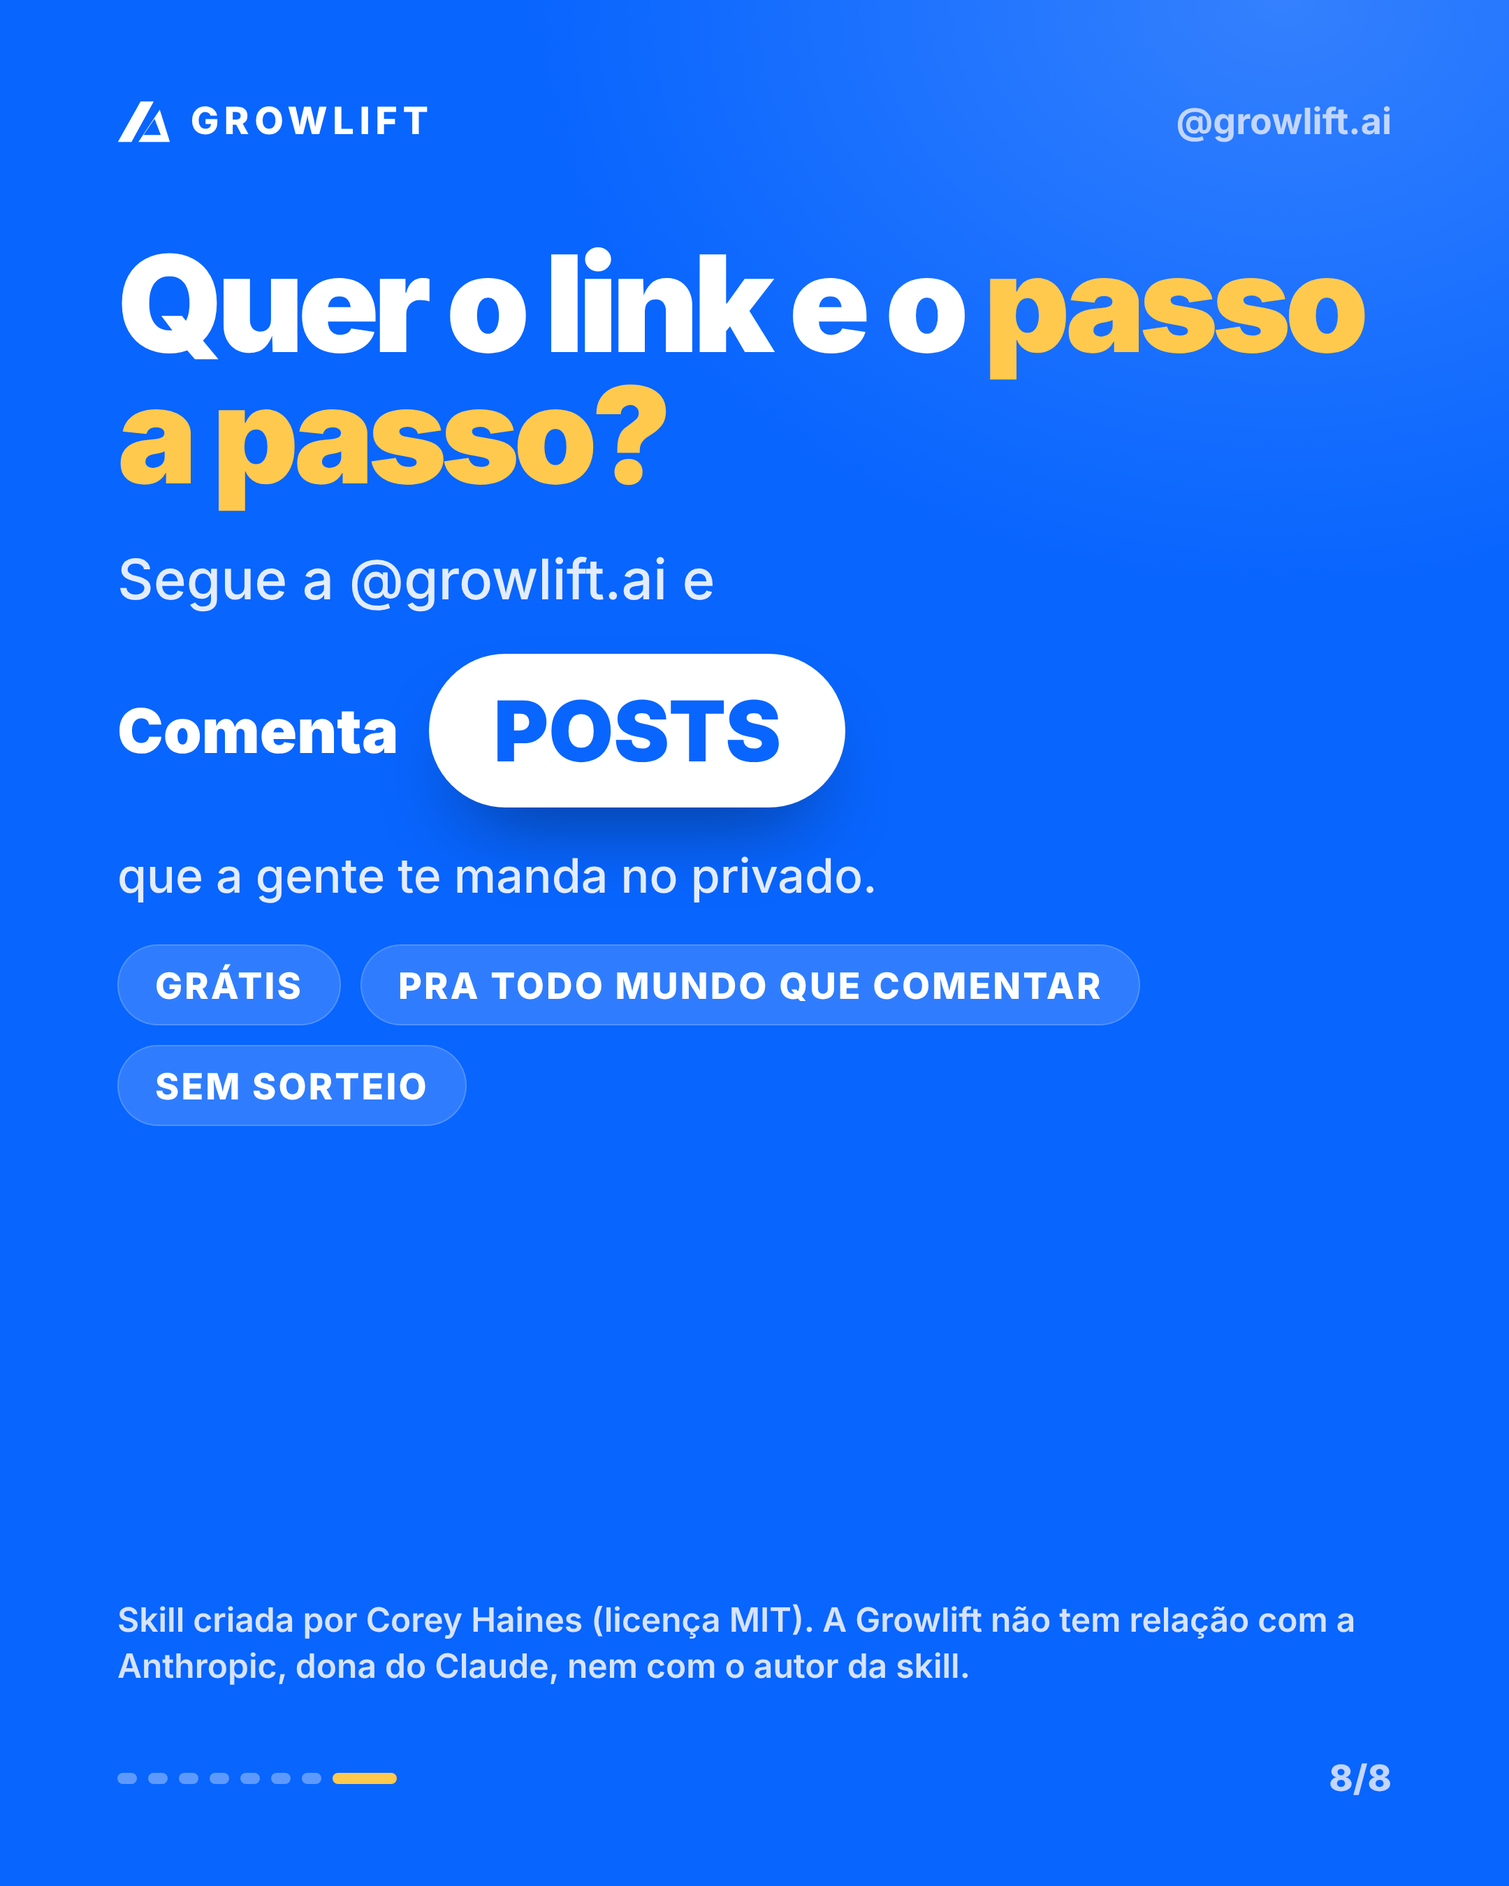
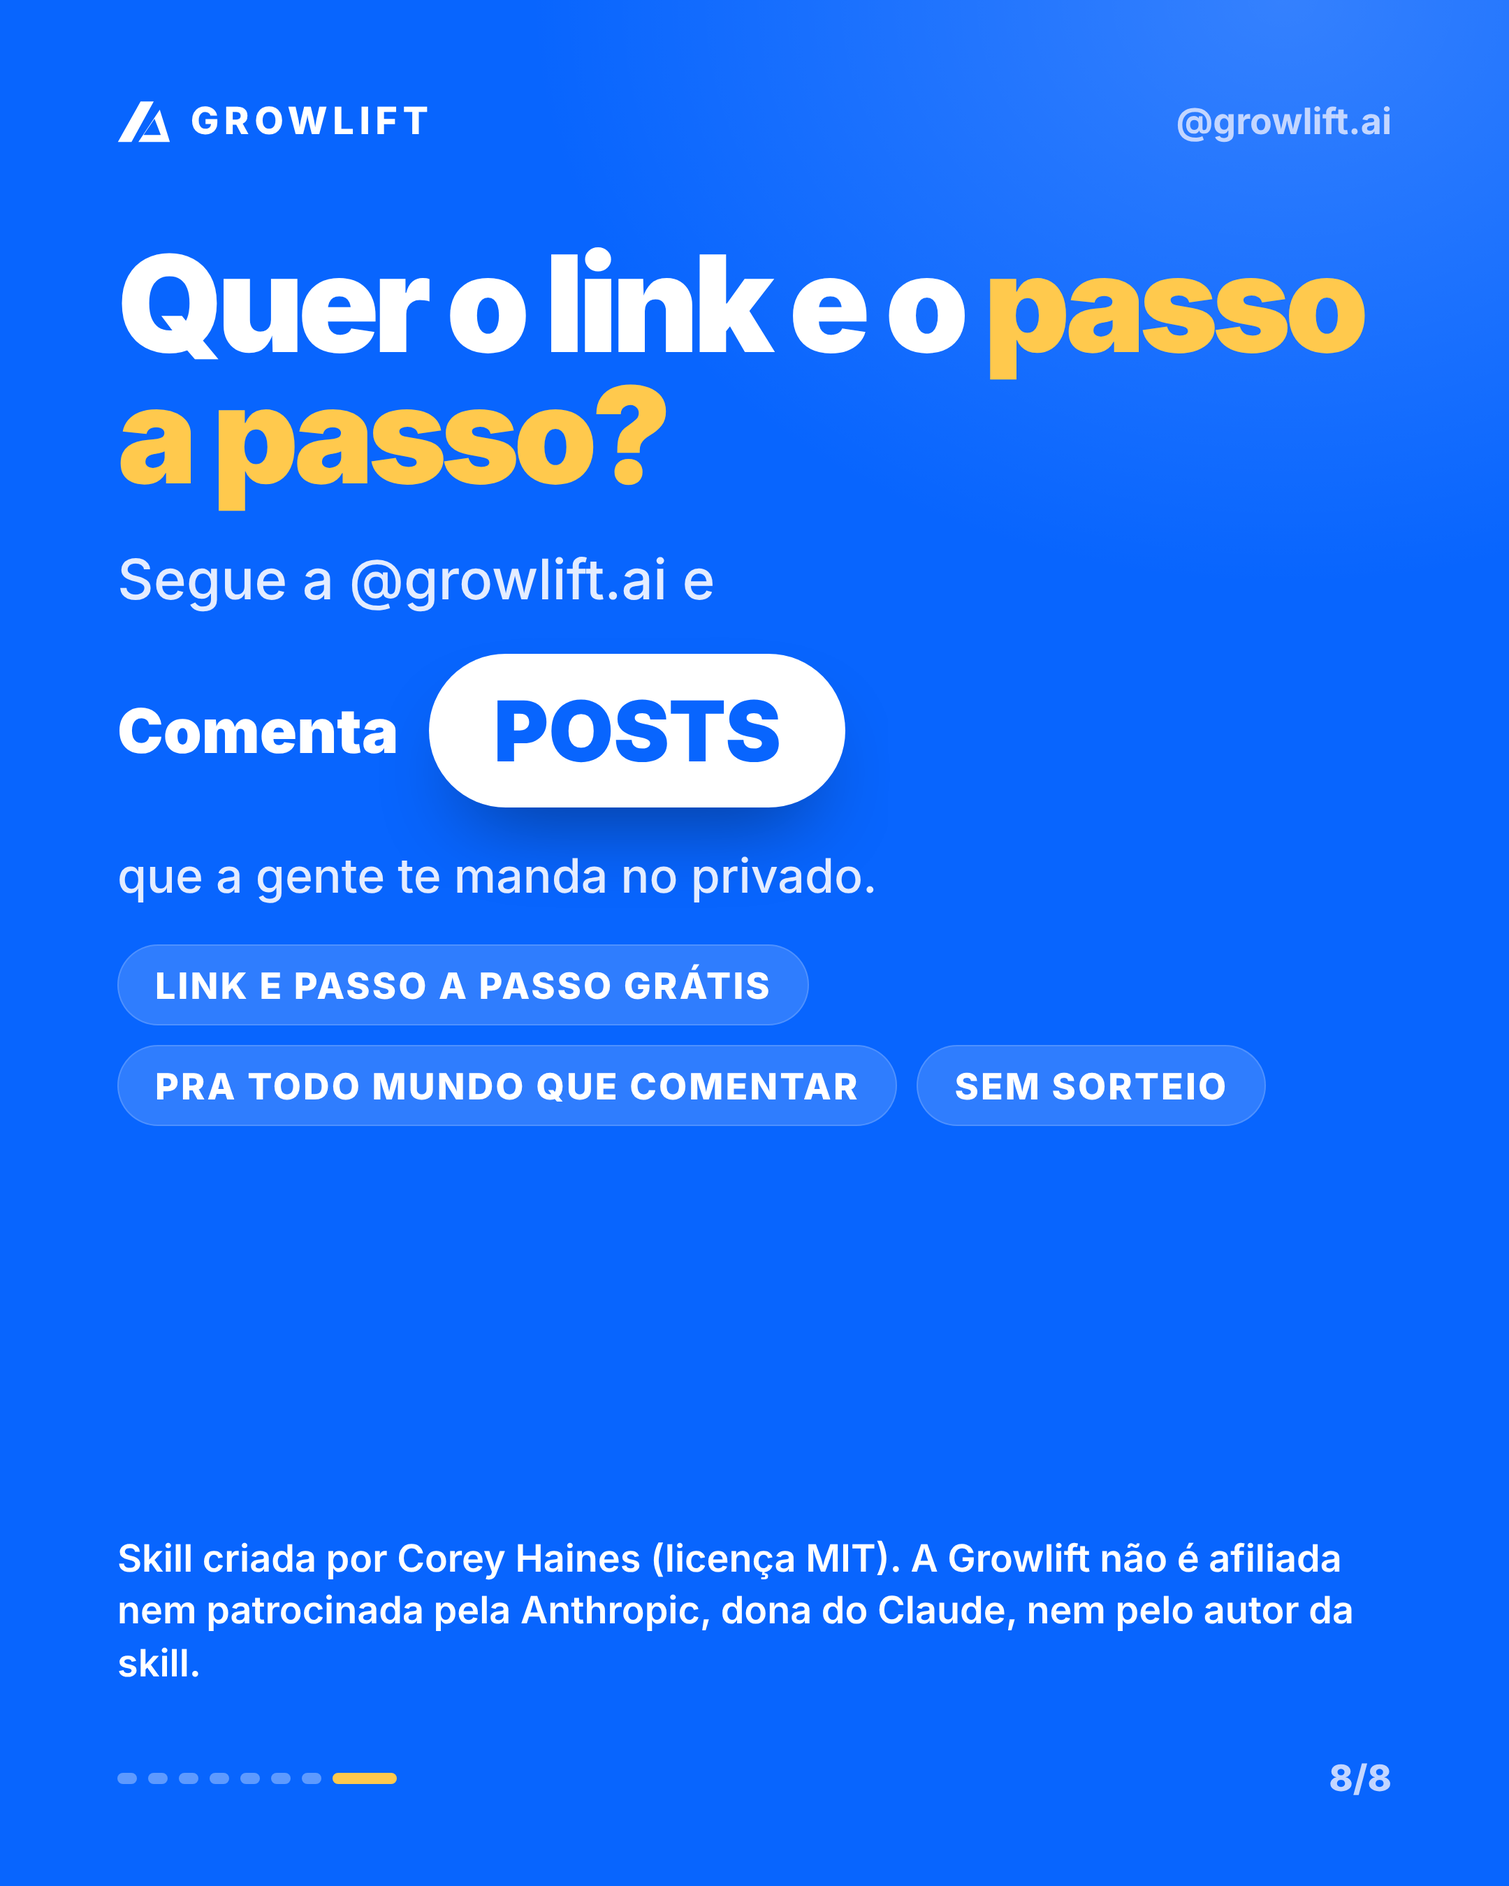
Carrossel 23: ajustes da revisão legal
"Gratuita" sempre junto do aviso de que a conta do Claude precisa ter
skills liberadas (depende do plano); "não é afiliada nem patrocinada pela
Anthropic nem pelo autor" maior e também no slide 3; chip "Link e passo a
passo grátis"; na legenda, seguir é pedido e não condição.

Claude-Session: https://claude.ai/code/session_0144E8K5YaHTVDtLe8swm1ug

Changed region(s): [[0.0931, 0.4978, 0.8375, 0.6222], [0.062, 0.8089, 0.8995, 0.9022]]

diff --git a/growlift-social/_fonte/html/09-carrosseis/23-skill-posts/07.html b/growlift-social/_fonte/html/09-carrosseis/23-skill-posts/07.html
@@ -48,10 +48,10 @@ body{background:#f3f6fc;color:#0b1220}
         <span style="flex:none;width:72px;height:72px;border-radius:22px;background:#0865fe;color:#fff;display:grid;place-items:center;font-size:36px;font-weight:900">1</span>
         <p class="p" style="font-size:38px;padding-top:6px"><b>Baixe o arquivo</b> social-claude-web.zip (a gente te manda o link).</p></div><div style="display:flex;gap:26px;align-items:flex-start">
         <span style="flex:none;width:72px;height:72px;border-radius:22px;background:#0865fe;color:#fff;display:grid;place-items:center;font-size:36px;font-weight:900">2</span>
-        <p class="p" style="font-size:38px;padding-top:6px"><b>No Claude:</b> Customize → Skills → + Create skill → Upload a skill.</p></div><div style="display:flex;gap:26px;align-items:flex-start">
+        <p class="p" style="font-size:38px;padding-top:6px"><b>No Claude (como diz o README do projeto):</b> Customize → Skills → + Create skill → Upload a skill.</p></div><div style="display:flex;gap:26px;align-items:flex-start">
         <span style="flex:none;width:72px;height:72px;border-radius:22px;background:#0865fe;color:#fff;display:grid;place-items:center;font-size:36px;font-weight:900">3</span>
         <p class="p" style="font-size:38px;padding-top:6px"><b>Peça em português:</b> “Monte os posts da semana do meu negócio”.</p></div></div></div>
-         <div style="margin-top:46px;padding:24px 28px;border-radius:22px;background:#e2eaff;color:#0b1220;font-size:30px;font-weight:700;line-height:1.35">Precisa de um plano pago do Claude com skills liberadas. Ela escreve; quem revisa e posta é você.</div></div>
+         <div style="margin-top:46px;padding:24px 28px;border-radius:22px;background:#e2eaff;color:#0b1220;font-size:30px;font-weight:700;line-height:1.35">Sua conta do Claude precisa permitir skills e execução de código (hoje isso depende do plano; confira no app). Ela escreve; quem revisa e posta é você.</div></div>
     <div style="position:absolute;left:84px;right:84px;bottom:62px;display:flex;justify-content:space-between;align-items:center">
       <div style="display:flex;gap:8px"><i style="display:block;height:8px;border-radius:4px;width:14px;background:rgba(11,18,32,.18)"></i><i style="display:block;height:8px;border-radius:4px;width:14px;background:rgba(11,18,32,.18)"></i><i style="display:block;height:8px;border-radius:4px;width:14px;background:rgba(11,18,32,.18)"></i><i style="display:block;height:8px;border-radius:4px;width:14px;background:rgba(11,18,32,.18)"></i><i style="display:block;height:8px;border-radius:4px;width:14px;background:rgba(11,18,32,.18)"></i><i style="display:block;height:8px;border-radius:4px;width:14px;background:rgba(11,18,32,.18)"></i><i style="display:block;height:8px;border-radius:4px;width:46px;background:#0865fe"></i><i style="display:block;height:8px;border-radius:4px;width:14px;background:rgba(11,18,32,.18)"></i></div>
       <span style="font-size:26px;font-weight:800;color:#6b7588">Arrasta →</span></div></body></html>

diff --git a/growlift-social/_fonte/html/09-carrosseis/23-skill-posts/01.html b/growlift-social/_fonte/html/09-carrosseis/23-skill-posts/01.html
@@ -45,7 +45,7 @@ body{background:#06080d;color:#ffffff}
       <span style="font-size:26px;font-weight:700;color:#a9b3c7">@growlift.ai</span></div>
     <div style="position:absolute;left:84px;right:84px;top:160px;bottom:140px"><span class="chip">Skill da Semana · Ep. 01</span>
          <h1 class="h" style="font-size:108px;margin-top:30px">Não sabe o que <em>postar</em> hoje?</h1>
-         <p class="p" style="margin-top:26px;max-width:880px">Essa skill grátis faz o Claude montar a semana de posts do seu negócio.</p>
+         <p class="p" style="margin-top:26px;max-width:880px">Essa skill gratuita (de código aberto) faz o Claude montar a semana de posts do seu negócio.</p>
          <div style="position:absolute;left:-84px;right:-84px;bottom:0;height:600px">
            <div class="phone" style="left:320px;top:20px;width:440px;height:620px;transform:rotate(-3deg)"><div class="screen"><div style="padding:64px 26px 0"><div style="font-size:30px;font-weight:900">Posts da semana</div><div style="font-size:20px;font-weight:700;color:#8a93a3;margin-top:4px">Padaria Exemplo · exemplo</div>
               <div style="margin-top:18px;padding:16px 18px;border-radius:20px;border:1.5px solid #e6eaf2;display:flex;gap:14px;align-items:center"><span style="flex:none;width:62px;height:62px;border-radius:16px;background:#e2eaff;color:#0865fe;display:grid;place-items:center;font-size:22px;font-weight:900">Seg</span><span><b style="display:block;font-size:19px;color:#0865fe;letter-spacing:.04em;text-transform:uppercase">Reel</b><span style="font-size:23px;font-weight:700">O pão saindo do forno às 6h</span></span></div><div style="margin-top:18px;padding:16px 18px;border-radius:20px;border:1.5px solid #e6eaf2;display:flex;gap:14px;align-items:center"><span style="flex:none;width:62px;height:62px;border-radius:16px;background:#e2eaff;color:#0865fe;display:grid;place-items:center;font-size:22px;font-weight:900">Qua</span><span><b style="display:block;font-size:19px;color:#0865fe;letter-spacing:.04em;text-transform:uppercase">Carrossel</b><span style="font-size:23px;font-weight:700">3 jeitos de guardar o pão fresco</span></span></div><div style="margin-top:18px;padding:16px 18px;border-radius:20px;border:1.5px solid #e6eaf2;display:flex;gap:14px;align-items:center"><span style="flex:none;width:62px;height:62px;border-radius:16px;background:#e2eaff;color:#0865fe;display:grid;place-items:center;font-size:22px;font-weight:900">Sex</span><span><b style="display:block;font-size:19px;color:#0865fe;letter-spacing:.04em;text-transform:uppercase">Post</b><span style="font-size:23px;font-weight:700">Quem faz o pão da casa</span></span></div></div></div></div>

diff --git a/growlift-social/_fonte/html/09-carrosseis/23-skill-posts/03.html b/growlift-social/_fonte/html/09-carrosseis/23-skill-posts/03.html
@@ -45,11 +45,11 @@ body{background:#f3f6fc;color:#0b1220}
       <span style="font-size:26px;font-weight:700;color:#6b7588">@growlift.ai</span></div>
     <div style="position:absolute;left:84px;right:84px;top:160px;bottom:140px"><span class="chip">A skill de hoje</span>
          <h2 class="h" style="font-size:96px;margin-top:30px"><em>social</em>, do Corey Haines.</h2>
-         <p class="p" style="margin-top:28px;max-width:900px">Grátis no GitHub, com licença aberta (MIT). Faz parte do <b>marketingskills</b>, uma coleção de 56 skills de marketing.</p>
+         <p class="p" style="margin-top:28px;max-width:900px">Gratuita no GitHub, com licença aberta (MIT). Faz parte do <b>marketingskills</b>, uma coleção de 56 skills de marketing.</p>
          <div class="card" style="margin-top:54px;padding:30px 34px;display:flex;justify-content:space-between;align-items:center">
            <div><div style="font-size:24px;font-weight:800;color:#8a93a3">github.com/coreyhaines31/</div><div style="font-size:42px;font-weight:900;margin-top:4px">marketingskills</div></div>
            <div style="text-align:right"><div style="font-size:44px;font-weight:900;color:#b07a00">★ 62 mil</div><div style="font-size:20px;font-weight:700;color:#8a93a3">estrelas em 23/11/2026</div></div></div>
-         <p class="p" style="margin-top:28px;font-size:30px">Quem criou foi ele. A Growlift só mostra como usar.</p></div>
+         <p class="p" style="margin-top:28px;font-size:30px">Quem criou foi ele. A Growlift só mostra como usar e não é afiliada a ele nem à Anthropic, dona do Claude.</p></div>
     <div style="position:absolute;left:84px;right:84px;bottom:62px;display:flex;justify-content:space-between;align-items:center">
       <div style="display:flex;gap:8px"><i style="display:block;height:8px;border-radius:4px;width:14px;background:rgba(11,18,32,.18)"></i><i style="display:block;height:8px;border-radius:4px;width:14px;background:rgba(11,18,32,.18)"></i><i style="display:block;height:8px;border-radius:4px;width:46px;background:#0865fe"></i><i style="display:block;height:8px;border-radius:4px;width:14px;background:rgba(11,18,32,.18)"></i><i style="display:block;height:8px;border-radius:4px;width:14px;background:rgba(11,18,32,.18)"></i><i style="display:block;height:8px;border-radius:4px;width:14px;background:rgba(11,18,32,.18)"></i><i style="display:block;height:8px;border-radius:4px;width:14px;background:rgba(11,18,32,.18)"></i><i style="display:block;height:8px;border-radius:4px;width:14px;background:rgba(11,18,32,.18)"></i></div>
       <span style="font-size:26px;font-weight:800;color:#6b7588">Arrasta →</span></div></body></html>

diff --git a/growlift-social/_fonte/html/09-carrosseis/23-skill-posts/08.html b/growlift-social/_fonte/html/09-carrosseis/23-skill-posts/08.html
@@ -49,8 +49,8 @@ body{background:#0865fe;color:#ffffff}
            <span style="font-size:44px;font-weight:900;color:#fff">Comenta</span>
            <span style="display:inline-flex;align-items:center;height:110px;padding:0 46px;border-radius:999px;background:#fff;color:#0865fe;font-size:60px;font-weight:900;box-shadow:0 30px 60px -24px rgba(0,0,0,.45)">POSTS</span></div>
          <p class="p" style="margin-top:26px;font-size:34px">que a gente te manda no privado.</p>
-         <div style="margin-top:26px;display:flex;gap:14px;flex-wrap:wrap"><span class="chip">Grátis</span><span class="chip">Pra todo mundo que comentar</span><span class="chip">Sem sorteio</span></div>
-         <p style="position:absolute;left:0;right:0;bottom:0;font-size:24px;line-height:1.4;color:#d6e3ff;font-weight:600">Skill criada por Corey Haines (licença MIT). A Growlift não tem relação com a Anthropic, dona do Claude, nem com o autor da skill.</p></div>
+         <div style="margin-top:26px;display:flex;gap:14px;flex-wrap:wrap"><span class="chip">Link e passo a passo grátis</span><span class="chip">Pra todo mundo que comentar</span><span class="chip">Sem sorteio</span></div>
+         <p style="position:absolute;left:0;right:0;bottom:0;font-size:27px;line-height:1.4;color:#ffffff;font-weight:600">Skill criada por Corey Haines (licença MIT). A Growlift não é afiliada nem patrocinada pela Anthropic, dona do Claude, nem pelo autor da skill.</p></div>
     <div style="position:absolute;left:84px;right:84px;bottom:62px;display:flex;justify-content:space-between;align-items:center">
       <div style="display:flex;gap:8px"><i style="display:block;height:8px;border-radius:4px;width:14px;background:rgba(255,255,255,.35)"></i><i style="display:block;height:8px;border-radius:4px;width:14px;background:rgba(255,255,255,.35)"></i><i style="display:block;height:8px;border-radius:4px;width:14px;background:rgba(255,255,255,.35)"></i><i style="display:block;height:8px;border-radius:4px;width:14px;background:rgba(255,255,255,.35)"></i><i style="display:block;height:8px;border-radius:4px;width:14px;background:rgba(255,255,255,.35)"></i><i style="display:block;height:8px;border-radius:4px;width:14px;background:rgba(255,255,255,.35)"></i><i style="display:block;height:8px;border-radius:4px;width:14px;background:rgba(255,255,255,.35)"></i><i style="display:block;height:8px;border-radius:4px;width:46px;background:#ffc94d"></i></div>
       <span style="font-size:26px;font-weight:800;color:#c3d6ff">8/8</span></div></body></html>

diff --git a/growlift-social/09-carrosseis/carrosseis.md b/growlift-social/09-carrosseis/carrosseis.md
@@ -490,24 +490,24 @@ Carrossel sobre a ficha técnica da marmita: capa com uma marmita de R$ 22 e a p
 
 Pasta `23-skill-posts/` (8 slides). Palavra: **POSTS** (presente em `10-presentes/presentes.md`: link oficial do arquivo da skill e o passo a passo). Fonte: `_fonte/carrosseis-v2.mjs 23`. Primeiro episódio da série "Skill da Semana" (plano: https://claude.ai/artifact/9WeT16HkFHwb5pwbVmHWeT).
 
-**Conferido em 23/11/2026:** o que a skill faz (SKILL.md do repositório), o arquivo `social-claude-web.zip` da release v2.14.25, as 62 mil estrelas e o caminho de instalação do README (Customize → Skills → + Create skill → Upload a skill). A skill é do Corey Haines (MIT); a Growlift não diz que fez e não tem relação com a Anthropic nem com o autor.
+**Conferido em 23/11/2026:** o que a skill faz (SKILL.md do repositório), o arquivo `social-claude-web.zip` da release v2.14.25, as 62 mil estrelas e o caminho de instalação do README (Customize → Skills → + Create skill → Upload a skill). A skill é do Corey Haines (MIT); a Growlift não diz que fez e não é afiliada à Anthropic nem ao autor. Revisão legal feita: "gratuita" sempre junto do aviso de que a conta do Claude precisa ter skills liberadas (depende do plano), e seguir é pedido, não condição.
 
-**Antes de postar:** ter a mensagem do privado pronta (ou cadastrada no ManyChat) e responder todo mundo que comentar.
+**Antes de postar:** conferir no app do Claude se o caminho de instalação continua o mesmo, ter a mensagem do privado pronta (ou cadastrada no ManyChat) e responder todo mundo que comentar, com uma mensagem só.
 
 **Legenda**
 
 ```
 Não sabe o que postar hoje? 📅 Salva esse carrossel.
 
-Skill da Semana, ep. 01: a skill "social", criada pelo Corey Haines e grátis no GitHub (licença MIT).
+Skill da Semana, ep. 01: a skill "social", criada pelo Corey Haines, é gratuita no GitHub (licença MIT).
 
 Ela faz o Claude perguntar sobre o seu negócio e depois montar os temas do perfil, os ganchos, o calendário da semana, roteiros de Reels e carrosséis. E ainda corta o texto com cara de IA.
 
-Pra usar, precisa de um plano pago do Claude com skills liberadas. Ela escreve; quem revisa e posta é você.
+Pra usar, sua conta do Claude precisa permitir skills e execução de código (hoje isso depende do plano; confira no app). Ela escreve; quem revisa e posta é você.
 
-Segue a @growlift.ai e comenta POSTS que a gente te manda no privado o link oficial e o passo a passo. Vale pra todo mundo que comentar, sem sorteio.
+Comenta POSTS que a gente te manda no privado o link oficial e o passo a passo. Vale pra todo mundo que comentar, sem sorteio. Se curtir, segue a @growlift.ai (ajuda, mas não é obrigatório).
 
-A Growlift não tem relação com a Anthropic, dona do Claude, nem com o autor da skill.
+A Growlift não é afiliada nem patrocinada pela Anthropic, dona do Claude, nem pelo autor da skill.
 
 #claude #inteligenciaartificial #marketingdigital #empreendedorismo #pequenosnegocios
 ```
@@ -515,5 +515,5 @@ A Growlift não tem relação com a Anthropic, dona do Claude, nem com o autor d
 **Texto alternativo da capa** (em Configurações avançadas, ao postar pelo app)
 
 ```
-Carrossel "Skill da Semana, episódio 1": capa "Não sabe o que postar hoje?" com um celular mostrando a semana de posts de uma padaria de exemplo; o que é uma skill; a skill "social", do Corey Haines, grátis no GitHub (licença MIT, coleção marketingskills com cerca de 62 mil estrelas); as perguntas que ela faz; o que ela monta (temas, ganchos, calendário, roteiros de Reels, carrosséis); a lista do que ela evita escrever; como instalar no Claude (plano pago); e o convite "Segue e comenta POSTS".
+Carrossel "Skill da Semana, episódio 1": capa "Não sabe o que postar hoje?" com um celular mostrando a semana de posts de uma padaria de exemplo; o que é uma skill; a skill "social", do Corey Haines, grátis no GitHub (licença MIT, coleção marketingskills com cerca de 62 mil estrelas em 23/11/2026); as perguntas que ela faz; o que ela monta (temas, ganchos, calendário, roteiros de Reels, carrosséis); a lista do que ela evita escrever; como instalar no Claude (a conta precisa ter skills liberadas); e o convite "Segue e comenta POSTS".
 ```

diff --git a/growlift-social/10-presentes/presentes.md b/growlift-social/10-presentes/presentes.md
@@ -64,10 +64,10 @@ Se quiser um assim pra sua loja, é só responder aqui. Para não receber mais m
 ```
 Oi! Aqui é da Growlift 👋 Valeu por comentar POSTS.
 
-Aqui está a skill "social", criada pelo Corey Haines e grátis no GitHub:
+Aqui está a skill "social", criada pelo Corey Haines, gratuita no GitHub (a Growlift não é afiliada a ele nem à Anthropic):
 https://github.com/coreyhaines31/marketingskills/releases/download/v2.14.25/social-claude-web.zip
 
-Como instalar (precisa de um plano pago do Claude com skills liberadas):
+Como instalar (sua conta do Claude precisa permitir skills e execução de código; hoje isso depende do plano):
 1) Baixe o arquivo pelo link.
 2) No Claude, vá em Customize → Skills → + Create skill → Upload a skill e envie o arquivo.
 3) Peça: "Monte os posts da semana do meu negócio" e responda as perguntas dela.
